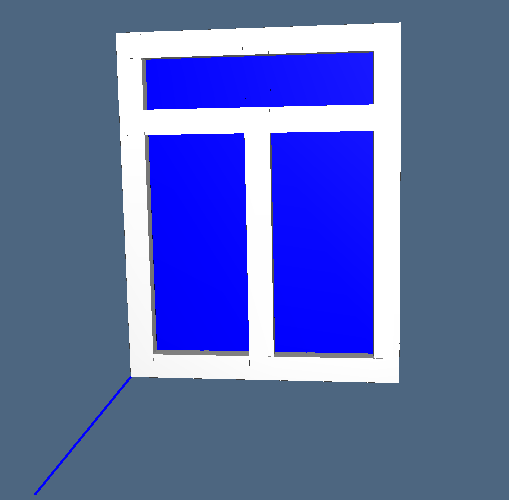
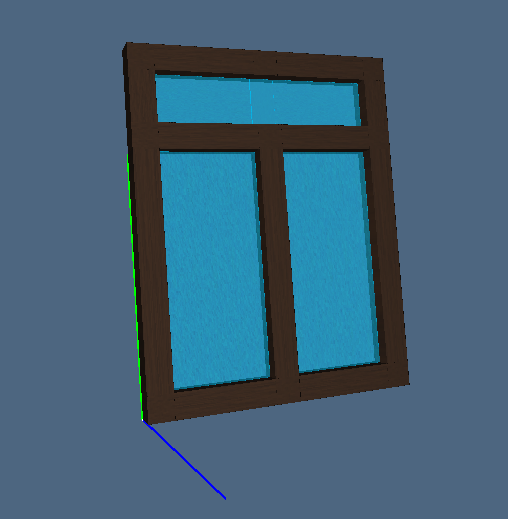
update workshop n.7

diff --git a/2016-11-25/workshop_07.py b/2016-11-25/workshop_07.py
@@ -1,14 +1,16 @@
 """ workshop 07 """
 
 from pyplasm import *
- """ xArray e' l'array corrispondende all'asse x
+""" xArray e' l'array corrispondende all'asse x
  	 yArray e' l'array corrispondende all'asse yArray
  	 occupancy e' l'array di array che stabilisce quale celle sono di vetro e quali di legno """
 #window1
-xArray = [0.0,0.1,0.5,0.6,1.0,1.1]
-yArray = [0.0,0.1,1.0,1.1,1.3,1.4]
-occupancy = [[1,1,1,1,1],[1,0,1,0,1],[1,1,1,1,1],[1,0,0,0,1],[1,1,1,1,1]]
-
+#xArray = [0.0,0.1,0.5,0.6,1.0,1.1]
+#yArray = [0.0,0.1,1.0,1.1,1.3,1.4]
+#occupancy = [[1,1,1,1,1],[1,0,1,0,1],[1,1,1,1,1],[1,0,0,0,1],[1,1,1,1,1]]
+glassTexture = "texture/glass.jpg"
+woodTexture = "texture/wood.png"
+wood1Texture = "texture/wood1.jpg"
 #window2
 #xArray = [0.0,0.1,0.5,0.6,1.0,1.1]
 #yArray = [0.0,0.1,0.6,0.7,1.2,1.3]
@@ -20,9 +22,9 @@ occupancy = [[1,1,1,1,1],[1,0,1,0,1],[1,1,1,1,1],[1,0,0,0,1],[1,1,1,1,1]]
 #occupancy = [[1,1,1],[1,0,1],[1,1,1],[1,0,1],[1,1,1]]
 
 #porta
-#xArray = [0.0,0.2,0.4,0.6,0.8,1.0]
-#yArray = [0.0,0.2,0.8,1.0,1.6,1.8]
-#occupancy = [[1,1,1,1,1],[1,0,1,0,1],[1,1,1,1,1],[1,0,1,0,1],[1,1,1,1,1]]
+xArray = [0.0,0.2,0.4,0.6,0.8,1.0]
+yArray = [0.0,0.2,0.8,1.0,1.6,1.8]
+occupancy = [[1,1,1,1,1],[1,0,1,0,1],[1,1,1,1,1],[1,0,1,0,1],[1,1,1,1,1]]
 
 """ struttura iniziale"""
 zero = QUOTE([.0,.0])
@@ -32,10 +34,15 @@ def window(i, j, partStruct):
 	if j != len(yArray)-1:
 		if  i != len(xArray)-1:
 			if occupancy[j][i]==0:
-				x = COLOR(BLUE)(CUBOID([xArray[i+1]-xArray[i],yArray[j+1]-yArray[j],0.01]))
+				x = TEXTURE([glassTexture, TRUE, FALSE, 1, 1, 0, 1, 1])(CUBOID([xArray[i+1]-xArray[i],yArray[j+1]-yArray[j],0.01]))
+  				x = MATERIAL([0,1.36,2.55,0.5,  0,1,0,0.5, 0,0,1,0, 0,0,0,0.5, 100])(x)
+  
+				#x = COLOR(BLUE)(CUBOID([xArray[i+1]-xArray[i],yArray[j+1]-yArray[j],0.01]))
 				struct = STRUCT([T([1,2,3])([xArray[i],yArray[j],0.1/3]), x])
 			else:
-				x = COLOR(WHITE)(CUBOID([xArray[i+1]-xArray[i],yArray[j+1]-yArray[j],0.1]))
+				#x = COLOR(WHITE)(CUBOID([xArray[i+1]-xArray[i],yArray[j+1]-yArray[j],0.1]))
+				x = TEXTURE([woodTexture, TRUE, FALSE, 1, 1, 0, 1, 1])(CUBOID([xArray[i+1]-xArray[i],yArray[j+1]-yArray[j],0.1]))
+
 				struct = STRUCT([T([1,2])([xArray[i],yArray[j]]), x])
 			partStruct = STRUCT([partStruct,struct])
 			return window(i+1, j, partStruct)
@@ -50,10 +57,16 @@ def door(i, j, partStruct):
 	if j != len(yArray)-1:
 		if  i != len(xArray)-1:
 			if occupancy[j][i]==0:
-				x = COLOR(WHITE)(CUBOID([xArray[i+1]-xArray[i],yArray[j+1]-yArray[j],0.01]))
+				#x = TEXTURE([wood1Texture, TRUE, FALSE, 1, 1, 0, 1, 1])(CUBOID([xArray[i+1]-xArray[i],yArray[j+1]-yArray[j],0.01]))
+				x = TEXTURE([glassTexture, TRUE, FALSE, 1, 1, 0, 1, 1])(CUBOID([xArray[i+1]-xArray[i],yArray[j+1]-yArray[j],0.01]))
+  				x = MATERIAL([0,1.36,2.55,0.5,  0,1,0,0.5, 0,0,1,0, 0,0,0,0.5, 100])(x)
+  
+				#x = COLOR(WHITE)(CUBOID([xArray[i+1]-xArray[i],yArray[j+1]-yArray[j],0.01]))
 				struct = STRUCT([T([1,2,3])([xArray[i],yArray[j],0.1/3]), x])
 			else:
-				x = COLOR(BROWN)(CUBOID([xArray[i+1]-xArray[i],yArray[j+1]-yArray[j],0.1]))
+				x = TEXTURE([woodTexture, TRUE, FALSE, 1, 1, 0, 1, 1])(CUBOID([xArray[i+1]-xArray[i],yArray[j+1]-yArray[j],0.1]))
+
+				#x = COLOR(BROWN)(CUBOID([xArray[i+1]-xArray[i],yArray[j+1]-yArray[j],0.1]))
 				struct = STRUCT([T([1,2])([xArray[i],yArray[j]]), x])
 			partStruct = STRUCT([partStruct,struct])
 			return door(i+1, j, partStruct)
@@ -63,5 +76,5 @@ def door(i, j, partStruct):
 		VIEW(partStruct)
 
 
-window(0, 0, initStruct)
-#door(0, 0, initStruct)
+#window(0, 0, initStruct)
+door(0, 0, initStruct)
